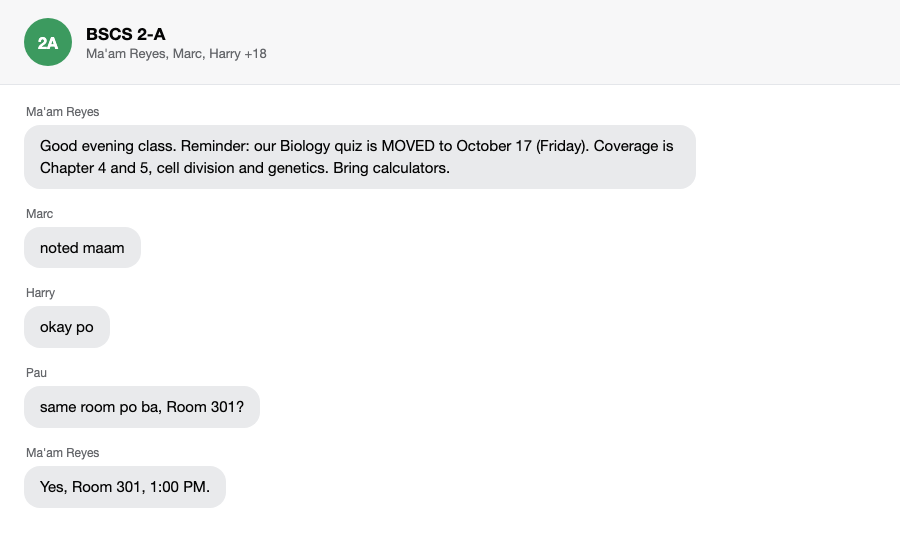
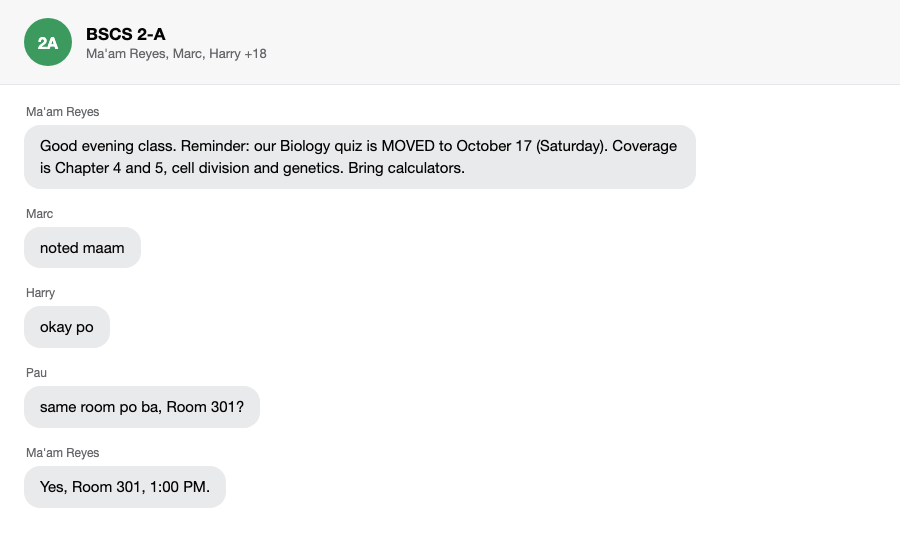
fix(samples): correct weekday in gc-biology-quiz-oct17.png
Oct 17, 2026 is a Saturday, not a Friday as the message said — caught
in QA rehearsal since the app's own Coming up chip says "Sat 17".
Fixed the text and re-rendered at the same window size (only the
first bubble's line wrap shifted by a couple of words). Also audited
every other date mention across all eleven demo files against the
real October 2026 calendar (Oct 9 Fri, 11 Sun, 13 Tue, 17 Sat, 19
Mon) — this was the only mismatch. README.md documents the fix and
the calendar reference used for the audit.

Changed region(s): [[0.0311, 0.2732, 0.4978, 0.3339], [0.5911, 0.2429, 0.7467, 0.2732]]

diff --git a/data/samples/demo/README.md b/data/samples/demo/README.md
@@ -15,6 +15,18 @@ Batch 2 (seven files, after "Why these four") was built to save time budget,
 so most of its files were not individually round-tripped through the live
 pipeline; the one that was (the whiteboard) is called out below.
 
+**Calendar reference (verified against October 2026, real dates — not
+model output):** Oct 9 Fri, Oct 11 Sun, Oct 13 Tue, Oct 17 Sat, Oct 19 Mon.
+Checked every file below for a stated weekday against its date after a QA
+rehearsal caught `gc-biology-quiz-oct17.png` claiming "(Friday)" for Oct 17
+(it's a Saturday — fixed, see that file's entry). Every other date mention
+across all eleven files (`jollibee-receipt.jpg` Oct 9, `physics-lab-handout.pdf`
+"Sunday, October 11", `sanaysay-wika-kultura.jpg` Oct 13, the two Oct 19
+mentions in `gc-calculus-longquiz-oct19.png` and `calc-longquiz-handout.jpg`
+which both already said "Monday", and the Oct 17 reminder in
+`whiteboard-photosynthesis.jpg` which states no weekday) matched the real
+calendar; only the one fix was needed.
+
 All four were verified against the real pipeline on this machine
 (`NEXT_PUBLIC_DEJAFIND_MOCK` unset, models already pulled: `qwen2.5vl:3b`,
 `qwen3:4b`, `nomic-embed-text`) by dropping them into `data/watch/` and
@@ -152,8 +164,14 @@ against `documents`/`dates` this time.
 
 Light Messenger-style GC screenshot, white background, same "BSCS 2-A"
 section as `gc-bio-quiz.png` (core's original, now also light-themed) —
-Ma'am Reyes moves the Biology quiz to October 17, adds a room/time follow-up
-exchange. Expected: subject Biology, date 2026-10-17.
+Ma'am Reyes moves the Biology quiz to October 17 (Saturday), adds a
+room/time follow-up exchange. Expected: subject Biology, date 2026-10-17.
+
+**Fixed after QA rehearsal:** the message originally read "October 17
+(Friday)" — Oct 17, 2026 is a Saturday, and the app's own "Coming up" chip
+says "Sat 17", so the mismatch was visible on stage. Corrected the text and
+re-rendered at the same window size; only the first bubble's line wrap
+shifted by a couple of words, everything else is pixel-identical.
 
 ### `gc-calculus-longquiz-oct19.png`
 
